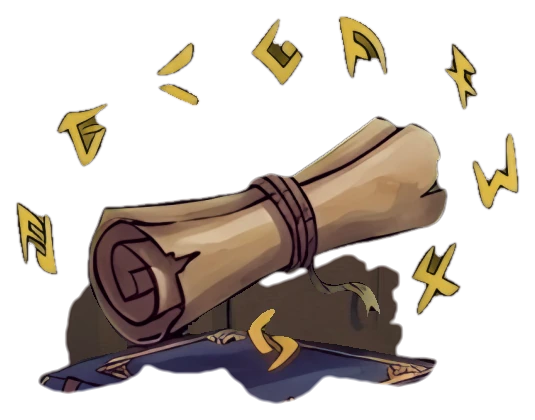
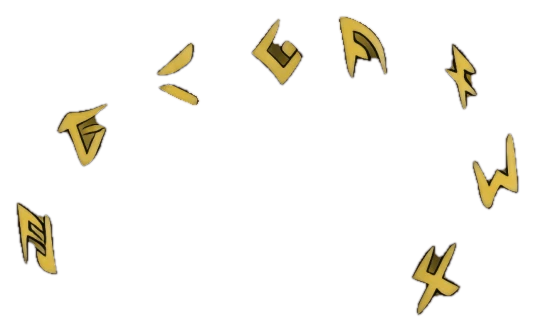
v24: About hat shadow cleaned, old hat tip no longer shows; books hover keeps the master scroll/rope (only runes float); disc centre rune fixed; hover frames de-greyed and white lines removed; Fan GDD cards equal height
Claude-Session: https://claude.ai/code/session_01DVG5f7VBQkdwappbx1RNPL

diff --git a/concepts/scenes/workshop.js b/concepts/scenes/workshop.js
@@ -20,8 +20,8 @@ PF.init({
   draw:function(svg,P){
     var el=P.el,K=900/572,OX=(1600-1024*K)/2,T='translate('+OX+',0) scale('+K+')';
     var CUT={raven:{x:49.69,y:19.48,w:233.74,h:296.94},construct:{x:769.59,y:48.10,w:254.41,h:273.49},books:{x:50.09,y:331.93,w:234.93,h:239.70},about:{x:333.52,y:358.96,w:377.24,h:212.67},disc:{x:674.98,y:275.88,w:284.22,h:295.75}};
-    var HOV={raven:{x:53.66,y:22.66,w:294.56,h:289.39},books:{x:69.57,y:241.29,w:212.67,h:166.96},construct:{x:748.52,y:50.48,w:205.12,h:209.09},about:{x:336.30,y:362.14,w:370.48,h:209.49},disc:{x:718.31,y:280.25,w:236.52,h:256.00}};
-    var RING={"disc":"M843.13 567.66 807.75 568.01 797.81 567.80 795.43 567.05 791.82 563.28 790.78 560.50 789.90 543.80 790.00 537.04 791.11 533.86 790.66 532.90 777.14 526.69 772.77 527.71 768.40 527.68 764.02 526.95 760.05 525.02 758.06 524.64 751.70 527.14 745.34 527.28 735.40 525.91 733.02 524.89 728.66 520.75 728.04 519.16 728.12 517.57 732.08 511.60 736.20 506.75 738.02 502.06 737.52 500.07 735.66 496.89 734.30 488.55 732.62 485.83 730.63 484.50 714.73 481.58 699.63 482.31 694.06 481.34 691.74 480.20 690.03 478.61 685.10 472.25 684.22 469.47 684.51 467.08 687.11 461.91 689.69 459.35 695.25 455.86 702.81 452.48 713.54 449.81 715.21 448.40 712.15 432.10 710.82 418.98 710.84 404.67 712.95 386.39 715.83 374.06 720.62 360.55 728.15 345.04 734.75 335.11 743.21 324.37 753.69 313.89 763.63 306.16 773.57 299.85 783.90 294.66 794.63 290.48 806.56 287.27 821.66 285.13 833.99 285.10 838.76 286.18 846.31 286.54 866.98 292.82 870.56 293.10 873.34 293.94 884.07 299.02 888.84 301.85 906.73 314.81 913.89 320.63 916.27 324.42 924.54 334.71 929.83 342.66 935.87 353.39 941.15 365.71 944.32 375.25 947.48 388.77 949.55 405.47 949.70 415.80 951.16 420.57 951.14 424.15 949.92 431.70 947.06 445.22 944.75 453.57 931.06 482.58 930.88 485.37 932.02 488.94 932.31 493.32 934.85 500.07 934.57 502.06 932.95 505.24 932.77 510.01 931.73 512.40 930.19 513.92 928.20 514.82 921.84 515.13 918.66 518.36 916.67 519.42 911.50 518.67 908.72 519.18 900.37 525.88 894.81 529.02 891.23 529.34 882.88 527.62 871.27 532.67 870.59 533.86 872.83 536.25 874.05 540.62 874.47 551.35 874.03 562.48 873.27 564.47 871.75 565.66 869.37 566.34 843.13 567.66Z","raven":"M142.71 308.88 135.95 309.21 124.82 308.32 122.43 307.29 120.40 305.69 119.48 304.10 119.01 301.71 119.23 291.78 117.71 281.04 118.37 276.27 119.87 274.68 122.43 273.73 132.91 273.09 137.90 268.72 138.29 267.93 137.93 267.13 132.37 266.03 128.80 265.91 111.70 267.86 69.17 267.82 65.19 267.20 62.01 266.00 59.05 263.55 57.37 261.17 56.11 254.41 56.41 240.50 58.54 235.73 60.02 234.19 62.81 232.54 63.61 230.56 63.27 207.11 63.84 202.73 64.93 199.16 63.29 190.81 62.87 168.94 63.54 163.78 66.38 155.83 64.62 150.26 63.68 143.50 63.65 127.60 64.15 122.04 65.82 115.68 68.56 109.71 66.99 105.74 66.98 102.16 68.69 93.02 72.28 81.89 75.73 75.13 79.80 69.57 83.08 66.42 87.78 64.00 89.72 58.04 94.21 52.77 115.68 36.08 120.05 33.68 127.20 32.32 132.77 29.65 138.73 27.74 150.26 25.64 163.38 25.08 175.30 25.59 185.24 27.57 189.22 29.12 192.80 31.47 199.95 32.53 205.52 34.95 218.63 44.51 226.19 50.78 229.38 54.06 231.48 58.04 235.33 60.42 238.60 63.60 240.99 67.18 246.75 78.31 253.01 96.99 254.29 102.56 254.10 107.73 255.30 111.30 255.85 115.28 256.42 125.61 256.77 126.81 257.59 127.51 259.98 127.43 268.72 124.69 270.71 125.12 273.09 126.60 274.68 126.79 284.22 124.08 293.50 120.45 310.86 110.23 315.23 108.20 317.22 108.47 318.79 110.11 318.91 112.50 317.51 116.47 318.01 117.19 318.81 117.18 323.67 114.88 335.11 108.22 338.29 107.27 339.88 107.66 341.25 108.92 341.71 110.51 341.33 112.89 338.59 117.66 332.30 124.82 332.17 126.01 333.91 126.23 345.04 122.83 346.63 123.18 347.73 124.02 348.47 126.81 346.72 130.39 339.88 137.24 335.90 140.14 325.59 145.89 325.81 146.68 326.76 147.01 335.90 147.63 337.49 148.81 338.04 150.66 337.09 152.76 333.91 155.61 323.11 160.60 322.92 161.39 324.12 164.57 322.78 166.99 319.20 169.06 314.43 170.89 308.87 170.89 306.56 174.51 304.89 175.94 301.71 177.51 296.15 179.15 294.78 182.46 292.97 184.24 290.58 185.10 283.03 186.30 280.71 189.61 279.06 190.91 272.55 192.00 271.30 195.58 269.91 196.95 266.73 198.11 262.76 198.19 261.68 199.16 258.40 205.12 257.60 211.48 256.78 228.57 257.59 230.72 261.57 232.72 263.45 234.53 264.98 237.32 265.98 240.50 267.02 246.06 267.05 253.22 265.96 259.98 264.35 262.43 260.77 264.90 256.80 265.86 204.72 266.31 184.49 267.93 183.72 268.72 183.86 269.52 186.83 271.86 188.82 272.30 198.36 272.56 200.30 273.49 201.48 275.08 201.89 277.86 201.88 302.11 201.54 304.10 200.75 305.31 197.96 306.71 188.02 307.60 142.71 308.88Z","books":"M159.01 566.46 142.31 566.37 137.14 565.32 131.58 566.05 128.40 564.83 125.91 562.09 124.11 549.76 124.20 532.27 125.51 529.49 128.40 527.26 131.58 526.46 138.34 525.90 138.71 525.12 138.39 524.32 134.41 520.35 122.43 514.65 116.07 512.56 105.25 508.02 96.99 506.70 87.85 503.87 77.04 498.88 63.60 494.00 61.22 492.59 59.23 490.66 57.82 487.75 57.73 482.98 60.34 474.63 58.96 469.86 59.01 464.70 56.62 458.34 56.31 449.19 57.53 446.81 61.28 443.63 61.92 442.43 62.59 434.88 63.94 430.91 64.63 422.96 66.60 416.60 71.16 409.69 73.54 407.95 77.91 406.00 79.64 403.88 79.85 397.12 78.03 391.55 79.09 387.98 81.89 385.29 85.86 383.09 97.79 377.88 105.34 375.90 106.60 374.86 106.28 373.27 99.95 361.74 97.96 355.38 97.44 351.40 97.47 343.45 98.37 335.50 103.69 321.59 106.00 318.41 107.73 317.26 110.51 316.58 129.99 315.18 147.88 313.15 159.40 311.30 161.79 310.39 166.16 306.59 168.94 305.21 175.70 303.41 183.25 303.66 194.16 296.55 213.47 282.46 217.04 280.79 221.02 280.46 224.20 281.23 228.97 283.44 233.74 283.17 237.71 283.93 242.48 286.41 247.03 290.58 248.72 292.97 250.56 297.74 251.57 303.70 250.67 309.27 253.11 313.24 253.93 317.22 253.81 321.99 252.24 328.75 250.73 331.53 248.45 334.10 243.68 337.19 227.78 341.66 214.66 344.48 213.39 345.44 213.89 346.24 217.84 347.75 220.62 349.67 223.31 352.60 225.14 355.78 226.90 360.55 227.70 365.71 227.52 370.48 226.03 373.66 226.43 374.86 232.94 376.29 241.29 377.00 245.27 377.89 248.84 380.13 253.95 382.01 256.13 384.00 257.46 385.99 258.21 388.37 258.20 391.16 255.44 396.32 254.97 401.09 259.18 406.92 262.38 410.24 263.46 413.42 263.04 416.60 260.91 420.17 259.37 426.53 259.36 428.52 260.56 430.91 263.07 432.89 269.12 435.01 272.30 437.17 274.65 439.65 276.10 442.43 277.99 449.19 278.61 455.95 278.06 463.50 276.35 472.65 274.40 477.02 270.31 480.30 263.16 483.20 258.39 484.56 250.43 488.17 236.92 492.12 221.10 498.09 210.68 502.69 196.77 507.27 193.19 509.48 187.67 515.18 187.55 516.37 188.42 517.43 200.92 525.91 203.13 526.31 209.49 525.46 216.65 525.80 219.83 526.88 222.55 529.49 223.72 533.07 224.13 557.71 223.51 560.50 221.42 562.94 217.84 564.58 211.48 565.36 188.42 565.64 178.48 566.39 159.01 566.46Z","construct":"M1023.60 271.46 1020.02 271.33 1012.07 269.92 993.39 269.48 983.06 270.01 980.27 270.59 978.75 271.50 977.13 274.29 976.93 276.67 978.29 279.75 981.86 282.59 982.80 284.22 983.07 297.74 984.18 304.89 983.42 308.07 979.88 310.93 945.29 311.99 918.26 311.67 911.90 312.36 909.12 311.85 906.29 310.06 905.22 307.28 905.21 299.33 905.89 294.96 905.65 285.81 908.00 281.04 908.55 278.66 908.00 276.27 906.67 274.29 904.44 273.09 897.99 271.54 889.24 270.32 867.38 270.66 860.22 269.90 845.12 269.65 837.57 266.21 830.01 260.80 823.25 258.62 815.70 255.21 810.53 253.51 804.57 249.33 800.04 244.87 794.57 242.48 792.81 240.50 790.58 236.52 785.60 232.55 782.41 223.40 782.57 220.22 784.70 216.41 785.31 214.26 784.92 211.88 783.50 209.55 781.52 208.34 774.76 206.08 766.01 202.21 755.68 196.23 751.39 192.40 750.65 190.41 750.57 187.63 751.92 173.71 753.85 166.16 757.27 160.52 760.94 152.25 763.23 149.36 766.41 147.65 770.39 146.56 775.55 146.04 780.72 146.40 783.50 147.21 788.27 150.10 795.43 150.87 803.76 153.84 807.75 153.93 808.94 153.36 813.99 139.93 812.92 136.22 808.12 131.98 807.02 128.80 807.03 124.02 807.53 122.04 808.88 120.45 812.15 118.06 813.89 114.48 813.71 111.80 811.58 106.93 812.40 102.96 814.76 99.38 821.66 92.60 823.65 91.68 828.42 90.75 829.95 89.84 832.61 84.67 834.39 82.79 837.57 81.23 844.72 79.24 847.11 79.79 851.19 83.08 853.86 83.92 857.04 83.60 860.62 81.70 863.01 81.18 873.34 82.49 877.30 81.89 879.62 80.30 880.98 77.52 881.24 75.53 880.56 70.76 881.07 68.37 886.86 62.55 892.02 60.28 897.59 60.55 900.27 60.02 901.57 59.17 904.75 55.30 909.12 53.18 912.70 52.54 918.26 53.04 922.61 54.86 925.06 58.83 927.01 60.39 930.19 61.11 934.56 61.07 938.53 62.58 942.60 66.39 944.75 69.96 945.13 72.75 943.53 77.91 943.62 80.30 944.97 83.08 948.61 85.86 950.40 88.25 950.78 96.20 950.26 98.98 949.31 100.57 944.60 103.35 943.07 104.94 942.04 107.33 941.95 109.32 943.30 115.20 944.26 117.27 945.79 118.86 951.59 122.04 956.34 132.37 960.74 137.94 961.77 140.32 962.32 143.90 962.10 148.27 957.32 156.22 956.56 159.80 957.67 163.78 961.02 170.14 962.00 175.30 964.82 181.66 965.59 188.82 969.22 195.18 969.48 206.31 968.42 212.67 969.54 216.37 971.93 218.41 976.91 219.43 990.21 218.88 992.20 219.63 996.25 222.61 1001.74 223.43 1007.30 222.37 1010.88 218.17 1013.27 216.72 1023.60 215.89Z","about":"M559.70 567.76 478.21 567.87 477.01 567.25 476.33 565.66 476.34 561.29 477.13 556.92 476.63 544.20 476.22 542.55 475.03 541.64 468.27 541.30 460.32 540.20 453.17 540.54 436.47 539.79 422.96 540.14 420.17 539.57 416.60 537.61 415.40 537.88 412.62 540.00 410.24 540.65 400.70 539.41 391.95 540.51 378.83 541.34 364.92 541.30 357.76 539.26 351.40 534.79 344.67 528.30 342.93 525.12 341.98 521.14 341.99 516.77 342.94 512.00 346.11 505.24 356.98 489.74 357.59 488.15 357.53 484.97 357.99 483.38 363.06 475.83 363.29 474.24 361.88 468.27 363.46 462.71 365.25 459.93 367.30 457.84 376.55 451.58 379.80 443.63 384.40 438.46 389.96 435.25 395.53 434.23 396.78 432.89 399.06 419.78 403.24 376.05 405.23 371.28 408.65 367.41 413.81 364.79 416.60 364.24 420.17 364.27 424.94 364.99 436.76 368.10 448.00 369.86 451.58 370.91 453.57 372.44 454.43 374.06 454.53 375.65 452.90 378.83 448.80 382.25 440.05 386.42 439.12 387.58 439.05 388.77 440.84 393.27 444.42 399.92 460.72 426.56 463.18 430.11 465.09 431.17 483.78 429.40 490.53 430.01 494.51 431.25 498.09 433.15 499.28 432.89 500.36 426.93 497.92 423.75 496.82 420.97 487.24 413.02 482.40 408.25 480.83 406.26 480.36 403.88 482.88 397.52 488.20 389.57 494.09 385.19 494.10 384.00 491.25 379.63 491.16 377.64 491.82 376.05 493.32 374.64 497.69 372.52 501.66 369.11 505.64 367.79 513.59 367.28 516.22 368.50 517.38 370.88 521.14 383.92 522.84 387.98 524.32 389.21 536.25 388.99 549.37 391.83 564.07 395.87 588.32 395.83 589.52 395.52 590.71 394.35 594.04 387.58 595.48 386.60 597.07 386.36 601.84 387.98 606.21 387.41 610.98 388.36 614.56 390.66 618.99 395.13 620.34 398.31 620.06 404.27 623.08 408.25 624.55 411.43 624.71 413.81 623.60 418.58 627.14 428.52 627.07 430.51 626.41 432.10 622.12 436.47 623.16 440.84 624.50 441.82 628.07 442.47 632.45 444.39 636.02 444.33 645.96 442.60 649.54 443.44 651.93 445.17 658.29 459.93 662.90 465.89 664.65 470.07 668.31 476.22 671.80 480.20 673.51 482.98 674.44 485.37 675.38 490.66 689.17 508.42 692.09 512.80 694.33 517.57 697.24 519.96 701.15 525.12 701.87 527.11 701.70 529.49 699.63 532.11 694.46 534.44 673.39 538.48 649.14 539.44 634.83 541.30 622.91 542.13 618.53 540.85 612.17 535.14 611.38 535.46 609.39 539.42 606.21 540.79 594.29 541.37 588.32 540.25 585.54 540.23 580.37 540.72 573.61 542.85 562.48 543.54 561.42 544.20 561.06 545.39 561.18 565.66 560.81 566.86 559.70 567.76Z"};
+    var HOV={raven:{x:53.66,y:22.66,w:294.56,h:289.39},books:{x:69.57,y:241.29,w:212.67,h:131.98},construct:{x:748.52,y:50.48,w:205.12,h:209.09},about:{x:336.30,y:362.14,w:370.48,h:209.49},disc:{x:718.31,y:280.25,w:236.52,h:256.00}};
+    var RING={"disc":"M843.13 567.66 807.75 568.01 797.81 567.80 795.43 567.05 791.82 563.28 790.78 560.50 789.90 543.80 790.00 537.04 791.11 533.86 790.66 532.90 777.14 526.69 772.77 527.71 768.40 527.68 764.02 526.95 760.05 525.02 758.06 524.64 751.70 527.14 745.34 527.28 735.40 525.91 733.02 524.89 728.66 520.75 728.04 519.16 728.12 517.57 732.08 511.60 736.20 506.75 738.02 502.06 737.52 500.07 735.66 496.89 734.30 488.55 732.62 485.83 730.63 484.50 714.73 481.58 699.63 482.31 694.06 481.34 691.74 480.20 690.03 478.61 685.10 472.25 684.22 469.47 684.51 467.08 687.11 461.91 689.69 459.35 695.25 455.86 702.81 452.48 713.54 449.81 715.21 448.40 712.15 432.10 710.82 418.98 710.84 404.67 712.95 386.39 715.83 374.06 720.62 360.55 728.15 345.04 734.75 335.11 743.21 324.37 753.69 313.89 763.63 306.16 773.57 299.85 783.90 294.66 794.63 290.48 806.56 287.27 821.66 285.13 833.99 285.10 838.76 286.18 846.31 286.54 866.98 292.82 870.56 293.10 873.34 293.94 884.07 299.02 888.84 301.85 906.73 314.81 913.89 320.63 916.27 324.42 924.54 334.71 929.83 342.66 935.87 353.39 941.15 365.71 944.32 375.25 947.48 388.77 949.55 405.47 949.70 415.80 951.16 420.57 951.14 424.15 949.92 431.70 947.06 445.22 944.75 453.57 931.06 482.58 930.88 485.37 932.02 488.94 932.31 493.32 934.85 500.07 934.57 502.06 932.95 505.24 932.77 510.01 931.73 512.40 930.19 513.92 928.20 514.82 921.84 515.13 918.66 518.36 916.67 519.42 911.50 518.67 908.72 519.18 900.37 525.88 894.81 529.02 891.23 529.34 882.88 527.62 871.27 532.67 870.59 533.86 872.83 536.25 874.05 540.62 874.47 551.35 874.03 562.48 873.27 564.47 871.75 565.66 869.37 566.34 843.13 567.66Z","raven":"M142.71 308.88 135.95 309.21 124.82 308.32 122.43 307.29 120.40 305.69 119.48 304.10 119.01 301.71 119.23 291.78 117.71 281.04 118.37 276.27 119.87 274.68 122.43 273.73 132.91 273.09 137.90 268.72 138.29 267.93 137.93 267.13 132.37 266.03 128.80 265.91 111.70 267.86 69.17 267.82 65.19 267.20 62.01 266.00 59.05 263.55 57.37 261.17 56.11 254.41 56.41 240.50 58.54 235.73 60.02 234.19 62.81 232.54 63.61 230.56 63.27 207.11 63.84 202.73 64.93 199.16 63.29 190.81 62.87 168.94 63.54 163.78 66.38 155.83 64.62 150.26 63.68 143.50 63.65 127.60 64.15 122.04 65.82 115.68 68.56 109.71 66.99 105.74 66.98 102.16 68.69 93.02 72.28 81.89 75.73 75.13 79.80 69.57 83.08 66.42 87.78 64.00 89.72 58.04 94.21 52.77 115.68 36.08 120.05 33.68 127.20 32.32 132.77 29.65 138.73 27.74 150.26 25.64 163.38 25.08 175.30 25.59 185.24 27.57 189.22 29.12 192.80 31.47 199.95 32.53 205.52 34.95 218.63 44.51 226.19 50.78 229.38 54.06 231.48 58.04 235.33 60.42 238.60 63.60 240.99 67.18 246.75 78.31 253.01 96.99 254.29 102.56 254.10 107.73 255.30 111.30 255.85 115.28 256.42 125.61 256.77 126.81 257.59 127.51 259.98 127.43 268.72 124.69 270.71 125.12 273.09 126.60 274.68 126.79 284.22 124.08 293.50 120.45 310.86 110.23 315.23 108.20 317.22 108.47 318.79 110.11 318.91 112.50 317.51 116.47 318.01 117.19 318.81 117.18 323.67 114.88 335.11 108.22 338.29 107.27 339.88 107.66 341.25 108.92 341.71 110.51 341.33 112.89 338.59 117.66 332.30 124.82 332.17 126.01 333.91 126.23 345.04 122.83 346.63 123.18 347.73 124.02 348.47 126.81 346.72 130.39 339.88 137.24 335.90 140.14 325.59 145.89 325.81 146.68 326.76 147.01 335.90 147.63 337.49 148.81 338.04 150.66 337.09 152.76 333.91 155.61 323.11 160.60 322.92 161.39 324.12 164.57 322.78 166.99 319.20 169.06 314.43 170.89 308.87 170.89 306.56 174.51 304.89 175.94 301.71 177.51 296.15 179.15 294.78 182.46 292.97 184.24 290.58 185.10 283.03 186.30 280.71 189.61 279.06 190.91 272.55 192.00 271.30 195.58 269.91 196.95 266.73 198.11 262.76 198.19 261.68 199.16 258.40 205.12 257.60 211.48 256.78 228.57 257.59 230.72 261.57 232.72 263.45 234.53 264.98 237.32 265.98 240.50 267.02 246.06 267.05 253.22 265.96 259.98 264.35 262.43 260.77 264.90 256.80 265.86 204.72 266.31 184.49 267.93 183.72 268.72 183.86 269.52 186.83 271.86 188.82 272.30 198.36 272.56 200.30 273.49 201.48 275.08 201.89 277.86 201.88 302.11 201.54 304.10 200.75 305.31 197.96 306.71 188.02 307.60 142.71 308.88Z","books":"M159.01 566.46 142.31 566.37 137.14 565.32 131.58 566.05 128.40 564.83 125.91 562.09 124.11 549.76 124.20 532.27 125.51 529.49 128.40 527.26 131.58 526.46 138.34 525.90 138.71 525.12 138.39 524.32 134.41 520.35 122.43 514.65 116.07 512.56 105.25 508.02 96.99 506.70 87.85 503.87 77.04 498.88 63.60 494.00 61.22 492.59 59.23 490.66 57.82 487.75 57.73 482.98 60.34 474.63 58.96 469.86 59.01 464.70 56.62 458.34 56.31 449.19 57.53 446.81 61.28 443.63 61.92 442.43 62.59 434.88 63.94 430.91 64.63 422.96 66.60 416.60 71.16 409.69 73.54 407.95 77.91 406.00 79.47 404.27 79.92 402.29 80.07 393.14 81.82 389.17 85.07 386.31 90.63 384.22 91.83 383.20 91.11 373.66 92.93 363.33 94.94 359.35 102.16 351.44 104.55 350.36 107.33 350.01 112.89 350.37 123.23 352.15 137.94 353.38 158.61 353.35 160.20 352.70 162.98 349.75 165.37 348.49 168.94 348.29 174.91 350.29 176.85 350.21 189.98 345.44 204.32 338.81 207.11 338.15 209.49 338.34 217.84 342.65 221.81 342.63 224.60 343.36 229.37 345.87 231.64 348.22 232.37 350.21 232.42 353.79 230.59 358.56 231.63 362.14 231.39 366.91 233.56 371.28 233.65 374.46 233.06 377.64 233.53 378.83 234.93 379.36 238.91 379.22 252.02 381.08 254.95 382.81 257.46 385.99 258.21 388.37 258.20 391.16 255.44 396.32 254.97 401.09 259.18 406.92 262.38 410.24 263.46 413.42 263.04 416.60 260.91 420.17 259.37 426.53 259.36 428.52 260.56 430.91 263.07 432.89 269.12 435.01 272.30 437.17 274.65 439.65 276.10 442.43 277.99 449.19 278.61 455.55 278.11 463.11 276.55 471.85 274.70 476.62 272.70 478.74 270.31 480.30 263.16 483.20 258.39 484.56 250.43 488.17 236.92 492.12 221.10 498.09 210.68 502.69 196.77 507.27 193.19 509.48 187.67 515.18 187.55 516.37 188.42 517.43 200.92 525.91 203.13 526.31 209.49 525.46 216.65 525.80 219.83 526.88 222.55 529.49 223.72 533.07 224.13 557.71 223.51 560.50 221.42 562.94 217.84 564.58 211.48 565.36 188.42 565.64 178.48 566.39 159.01 566.46Z","construct":"M1023.60 271.46 1020.02 271.33 1012.07 269.92 993.39 269.48 983.06 270.01 980.27 270.59 978.75 271.50 977.13 274.29 976.93 276.67 978.29 279.75 981.86 282.59 982.80 284.22 983.07 297.74 984.18 304.89 983.42 308.07 979.88 310.93 945.29 311.99 918.26 311.67 911.90 312.36 909.12 311.85 906.29 310.06 905.22 307.28 905.21 299.33 905.89 294.96 905.65 285.81 908.00 281.04 908.55 278.66 908.00 276.27 906.67 274.29 904.44 273.09 897.99 271.54 889.24 270.32 867.38 270.66 860.22 269.90 845.12 269.65 837.57 266.21 830.01 260.80 823.25 258.62 815.70 255.21 810.53 253.51 804.57 249.33 800.04 244.87 794.57 242.48 792.81 240.50 790.58 236.52 785.60 232.55 782.41 223.40 782.57 220.22 784.70 216.41 785.31 214.26 784.92 211.88 783.50 209.55 781.52 208.34 774.76 206.08 766.01 202.21 755.68 196.23 751.39 192.40 750.65 190.41 750.57 187.63 751.92 173.71 753.85 166.16 757.27 160.52 760.94 152.25 763.23 149.36 766.41 147.65 770.39 146.56 775.55 146.04 780.72 146.40 783.50 147.21 788.27 150.10 795.43 150.87 803.76 153.84 807.75 153.93 808.94 153.36 813.99 139.93 812.92 136.22 808.12 131.98 807.02 128.80 807.03 124.02 807.53 122.04 808.88 120.45 812.15 118.06 813.89 114.48 813.71 111.80 811.58 106.93 812.40 102.96 814.76 99.38 821.66 92.60 823.65 91.68 828.42 90.75 829.95 89.84 832.61 84.67 834.39 82.79 837.57 81.23 844.72 79.24 847.11 79.79 851.19 83.08 853.86 83.92 857.04 83.60 860.62 81.70 863.01 81.18 873.34 82.49 877.30 81.89 879.62 80.30 880.98 77.52 881.24 75.53 880.56 70.76 881.07 68.37 886.86 62.55 892.02 60.28 897.59 60.55 900.27 60.02 901.57 59.17 904.75 55.30 909.12 53.18 912.70 52.54 918.26 53.04 922.61 54.86 925.06 58.83 927.01 60.39 930.19 61.11 934.56 61.07 938.53 62.58 942.60 66.39 944.75 69.96 945.13 72.75 943.53 77.91 943.62 80.30 944.97 83.08 948.61 85.86 950.40 88.25 950.78 96.20 950.26 98.98 949.31 100.57 944.60 103.35 943.07 104.94 942.04 107.33 941.95 109.32 943.30 115.20 944.26 117.27 945.79 118.86 951.59 122.04 956.34 132.37 960.74 137.94 961.77 140.32 962.32 143.90 962.10 148.27 957.32 156.22 956.56 159.80 957.67 163.78 961.02 170.14 962.00 175.30 964.82 181.66 965.59 188.82 969.22 195.18 969.48 206.31 968.42 212.67 969.54 216.37 971.93 218.41 976.91 219.43 990.21 218.88 992.20 219.63 996.25 222.61 1001.74 223.43 1007.30 222.37 1010.88 218.17 1013.27 216.72 1023.60 215.89Z","about":"M559.70 567.76 478.21 567.87 477.01 567.25 476.33 565.66 476.34 561.29 477.13 556.92 476.63 544.20 476.22 542.55 475.03 541.64 468.27 541.30 460.32 540.20 453.17 540.54 436.47 539.79 422.96 540.14 420.17 539.57 416.60 537.61 415.40 537.88 412.62 540.00 410.24 540.65 400.70 539.41 391.95 540.51 378.83 541.34 364.92 541.30 357.76 539.26 351.40 534.79 344.67 528.30 342.93 525.12 341.98 521.14 341.99 516.77 342.94 512.00 346.11 505.24 356.98 489.74 357.59 488.15 357.53 484.97 357.99 483.38 363.06 475.83 363.29 474.24 361.88 468.27 363.46 462.71 365.25 459.93 367.30 457.84 376.55 451.58 379.80 443.63 384.40 438.46 389.96 435.25 395.53 434.23 396.78 432.89 399.06 419.78 403.24 376.05 405.23 371.28 408.65 367.41 413.81 364.79 416.60 364.24 420.17 364.27 424.94 364.99 436.76 368.10 448.00 369.86 451.58 370.91 453.57 372.44 454.43 374.06 454.53 375.65 452.90 378.83 448.80 382.25 440.05 386.42 439.12 387.58 439.05 388.77 440.84 393.27 444.42 399.92 460.72 426.56 463.18 430.11 465.09 431.17 483.78 429.40 490.53 430.01 494.51 431.25 498.09 433.15 499.28 432.89 500.36 426.93 497.92 423.75 496.82 420.97 487.24 413.02 482.40 408.25 480.83 406.26 480.36 403.88 482.88 397.52 488.20 389.57 494.09 385.19 494.10 384.00 491.25 379.63 491.16 377.64 491.82 376.05 493.32 374.64 497.69 372.52 501.66 369.11 505.64 367.79 513.59 367.28 516.22 368.50 517.38 370.88 521.14 383.92 522.84 387.98 524.32 389.21 536.25 388.99 549.37 391.83 564.07 395.87 588.32 395.83 589.52 395.52 590.71 394.35 594.04 387.58 595.48 386.60 597.07 386.36 601.84 387.98 606.21 387.41 610.98 388.36 614.56 390.66 618.99 395.13 620.34 398.31 620.06 404.27 623.08 408.25 624.55 411.43 624.71 413.81 623.60 418.58 627.14 428.52 627.07 430.51 626.41 432.10 622.12 436.47 623.16 440.84 624.50 441.82 628.07 442.47 632.45 444.39 636.02 444.33 645.96 442.60 649.54 443.44 651.93 445.17 658.29 459.93 662.90 465.89 664.65 470.07 668.31 476.22 671.80 480.20 673.51 482.98 674.44 485.37 675.38 490.66 689.17 508.42 692.09 512.80 694.33 517.57 697.24 519.96 701.15 525.12 701.87 527.11 701.70 529.49 699.63 532.11 694.46 534.44 673.39 538.48 649.14 539.44 634.83 541.30 622.91 542.13 618.53 540.85 612.17 535.14 611.38 535.46 609.39 539.42 606.21 540.79 594.29 541.37 588.32 540.25 585.54 540.23 580.37 540.72 573.61 542.85 562.48 543.54 561.42 544.20 561.06 545.39 561.18 565.66 560.81 566.86 559.70 567.76Z"};
     var SIGN={raven:[123,276,75,29],books:[129,531,90,30],construct:[909,284,71,26],about:[479,536,79,30],disc:[794,536,78,27]};
     P.defs(
       '<radialGradient id="vig" cx=".5" cy=".5" r=".78"><stop offset=".62" stop-color="#0a0604" stop-opacity="0"/><stop offset="1" stop-color="#0a0604" stop-opacity=".5"/></radialGradient>'

diff --git a/concepts/core/core.css b/concepts/core/core.css
@@ -531,3 +531,10 @@ body[data-theme=workshop] .pf-copy:hover,body[data-theme=workshop] .pf-copy:focu
  body[data-theme=workshop] .pf-tab:not(.on):hover,body[data-theme=workshop] .pf-tab.on:hover{border-image-width:8px 12px;border-image-slice:26 30 fill;border-image-source:url(../ui/chip.png)}
  body[data-theme=workshop] .pf-tab.on:hover{border-image-source:url(../ui/btn.png)}
 }
+
+/* v24: all Fan GDD cards share one height - text grows, the buttons sit on the bottom edge */
+.pf-cards{align-items:stretch}
+.pf-cards .pf-gdd{flex:1 1 auto}
+.pf-cards .pf-gdd-txt{flex:1 1 auto;display:flex;flex-direction:column}
+.pf-cards .pf-gdd-txt .pf-btns{margin-top:auto;padding-top:10px}
+.pf-cards{grid-auto-rows:1fr}
